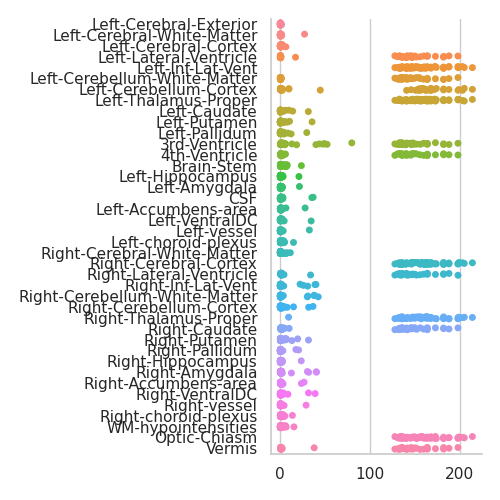
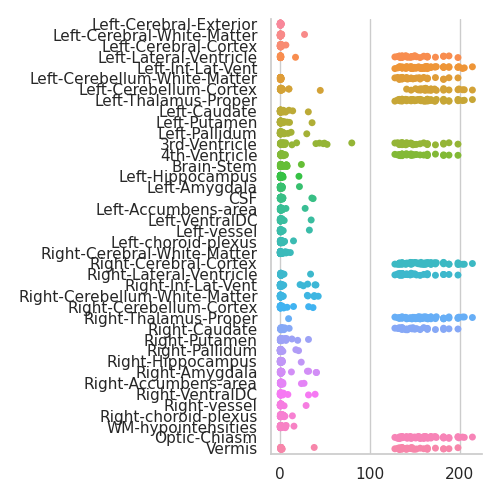
Abstracted out common code.

diff --git a/SynthSeg/dcan/paper/create_plots.py b/SynthSeg/dcan/paper/create_plots.py
@@ -8,29 +8,27 @@ import matplotlib.pyplot as plt
 def create_violin_plots(results_dir, measures):
     # https://mode.com/blog/violin-plot-examples/
     for measure in measures:
-        data_file_path = os.path.join(results_dir, f'{measure}.csv')
-        df = pd.read_csv(data_file_path)
-        df.drop('Unknown', axis=1, inplace=True)
-        if measure == 'dice':
-            # Remove columns with zeros
-            # 0 seems to mean NaN to SynthSeg
-            df = df.loc[:, (df != 0).all(axis=0)]
-        sns.set(style='whitegrid')
+        df = set_up_plot(measure, results_dir)
         sns.violinplot(data=df, orient='h')
         plt.savefig(f'../../../img/paper/violinplot/{measure}.png')
+
+
+def set_up_plot(measure, results_dir):
+    data_file_path = os.path.join(results_dir, f'{measure}.csv')
+    df = pd.read_csv(data_file_path)
+    df.drop('Unknown', axis=1, inplace=True)
+    if measure == 'dice':
+        # Remove columns with zeros
+        # 0 seems to mean NaN to SynthSeg
+        df = df.loc[:, (df != 0).all(axis=0)]
+    sns.set(style='whitegrid')
+    return df
 
 
 def create_box_plots(results_dir, measures):
     # https://mode.com/blog/violin-plot-examples/
     for measure in measures:
-        data_file_path = os.path.join(results_dir, f'{measure}.csv')
-        df = pd.read_csv(data_file_path)
-        df.drop('Unknown', axis=1, inplace=True)
-        if measure == 'dice':
-            # Remove columns with zeros
-            # 0 seems to mean NaN to SynthSeg
-            df = df.loc[:, (df != 0).all(axis=0)]
-        sns.set(style='whitegrid')
+        df = set_up_plot(measure, results_dir)
         sns.boxplot(data=df, orient='h')
         plt.savefig(f'../../../img/paper/boxplot/{measure}.png')
 
@@ -38,14 +36,7 @@ def create_box_plots(results_dir, measures):
 def create_cat_plots(results_dir, measures):
     # https://mode.com/blog/violin-plot-examples/
     for measure in measures:
-        data_file_path = os.path.join(results_dir, f'{measure}.csv')
-        df = pd.read_csv(data_file_path)
-        df.drop('Unknown', axis=1, inplace=True)
-        if measure == 'dice':
-            # Remove columns with zeros
-            # 0 seems to mean NaN to SynthSeg
-            df = df.loc[:, (df != 0).all(axis=0)]
-        sns.set(style='whitegrid')
+        df = set_up_plot(measure, results_dir)
         sns.catplot(data=df, orient='h')
         plt.savefig(f'../../../img/paper/catplot/{measure}.png')
 
